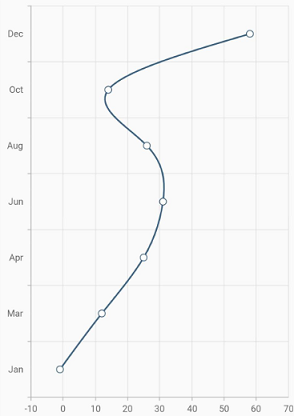
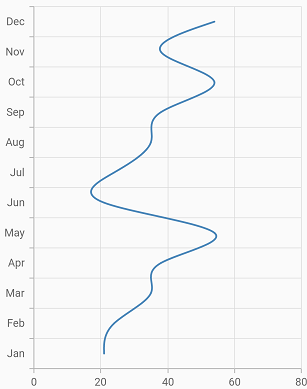
flut-6158-[bug][flutter]: pubspecfile changes

diff --git a/Flutter/cartesian-charts/chart-types/spline-chart.md b/Flutter/cartesian-charts/chart-types/spline-chart.md
@@ -19,6 +19,13 @@ To render a spline chart, create an instance of [`SplineSeries`](https://pub.dev
 
     @override
     Widget build(BuildContext context) {
+        final List<ChartData> chartData = [
+            ChartData(2010, 35),
+            ChartData(2011, 13),
+            ChartData(2012, 34),
+            ChartData(2013, 27),
+            ChartData(2014, 40)
+        ];
         return Scaffold(
             body: Center(
                 child: Container(
@@ -26,16 +33,22 @@ To render a spline chart, create an instance of [`SplineSeries`](https://pub.dev
                         primaryXAxis: DateTimeAxis(),
                         series: <ChartSeries>[
                             // Renders spline chart
-                            SplineSeries<SalesData, DateTime>(
+                            SplineSeries<ChartData, int>(
                                 dataSource: chartData,
-                                xValueMapper: (SalesData sales, _) => sales.year,
-                                yValueMapper: (SalesData sales, _) => sales.sales
-                            )
-                        ]
+                                xValueMapper: (ChartData sales, _) => sales.x,
+                                yValueMapper: (ChartData sales, _) => sales.y
+                                )
+                            ]
+                        )
                     )
                 )
-            )
-        );
+            );
+        }
+    }
+    class ChartData {
+        ChartData(this.x, this.y);
+        final int x;
+        final double? y;
     }
 
 {% endhighlight %}
@@ -50,24 +63,36 @@ The [`dashArray`](https://pub.dev/documentation/syncfusion_flutter_charts/latest
     
     @override
     Widget build(BuildContext context) {
+        final List<ChartData> chartData = [
+            ChartData(2010, 35),
+            ChartData(2011, 13),
+            ChartData(2012, 34),
+            ChartData(2013, 27),
+            ChartData(2014, 40)
+        ];
         return Scaffold(
             body: Center(
                 child: Container(
                     child: SfCartesianChart(
-                        primaryXAxis: DateTimeAxis(),
                         series: <ChartSeries>[
-                            SplineSeries<SalesData, DateTime>(
+                            SplineSeries<ChartData, int>(
                                 dataSource: chartData,
                                 // Dash values for spline
                                 dashArray: <double>[5, 5],
-                                xValueMapper: (SalesData sales, _) => sales.year,
-                                yValueMapper: (SalesData sales, _) => sales.sales
-                            )
-                        ]
+                                xValueMapper: (ChartData sales, _) => sales.x,
+                                yValueMapper: (ChartData sales, _) => sales.y
+                                )
+                            ]
+                        )
                     )
                 )
-            )
-        );
+            );
+        }
+    }
+    class ChartData {
+        ChartData(this.x, this.y);
+        final int x;
+        final double? y;
     }
 
 {% endhighlight %}
@@ -91,25 +116,37 @@ The following code sample demonstrates how to set the [`splineType`](https://pub
     
     @override
     Widget build(BuildContext context) {
+        final List<ChartData> chartData = [
+            ChartData(2010, 35),
+            ChartData(2011, 13),
+            ChartData(2012, 34),
+            ChartData(2013, 27),
+            ChartData(2014, 40)
+        ];
         return Scaffold(
             body: Center(
                 child: Container(
                     child: SfCartesianChart(
-                        primaryXAxis: DateTimeAxis(),
                         series: <ChartSeries>[
-                            SplineSeries<SalesData, DateTime>(
+                            SplineSeries<ChartData, int>(
                                 dataSource: chartData,
                                 // Type of spline
                                 splineType: SplineType.cardinal,
                                 cardinalSplineTension: 0.9,
-                                xValueMapper: (SalesData sales, _) => sales.year,
-                                yValueMapper: (SalesData sales, _) => sales.sales
-                            )
-                        ]
+                                xValueMapper: (ChartData sales, _) => sales.x,
+                                yValueMapper: (ChartData sales, _) => sales.y
+                                )
+                            ]
+                        )
                     )
                 )
-            )
-        );
+            );
+        }
+    }
+    class ChartData {
+        ChartData(this.x, this.y);
+        final int x;
+        final double? y;
     }
 
 {% endhighlight %}
@@ -126,6 +163,20 @@ The [`isTransposed`](https://pub.dev/documentation/syncfusion_flutter_charts/lat
 
     @override
     Widget build(BuildContext context) {
+        final List<ChartData> chartData = <ChartData>[
+                ChartData('Jan', 21),
+                ChartData('Feb', 24),
+                ChartData('Mar', 35),
+                ChartData('Apr', 38),
+                ChartData('May', 54),
+                ChartData('Jun', 21),
+                ChartData('Jul', 24),
+                ChartData('Aug', 35),
+                ChartData('Sep', 38),
+                ChartData('Oct', 54),
+                ChartData('Nov', 38),
+                ChartData('Dec', 54)
+             ];
         return Scaffold(
             body: Center(
                 child: Container(
@@ -133,18 +184,24 @@ The [`isTransposed`](https://pub.dev/documentation/syncfusion_flutter_charts/lat
                         isTransposed: true,
                         primaryXAxis: CategoryAxis(),
                         series: <ChartSeries>[
-                            SplineSeries<SalesData, String>(
+                            SplineSeries<ChartData, String>(
                                 dataSource: chartData,
-                                xValueMapper: (SalesData sales, _) => sales.year,
-                                yValueMapper: (SalesData sales, _) => sales.sales
-                            )
-                        ]
+                                xValueMapper: (ChartData sales, _) => sales.x,
+                                yValueMapper: (ChartData sales, _) => sales.y
+                                )
+                            ]
+                        )
                     )
                 )
-            )
-        );
+            );
+        }
+    }
+    class ChartData {
+        ChartData(this.x, this.y);
+        final String x;
+        final double? y;
     }
 
 {% endhighlight %}
 
-![Vertical spline chart](cartesian-chart-types-images/inversed-spline.png)
+![Vertical spline chart](cartesian-chart-types-images/inversed-spline.jpeg)
